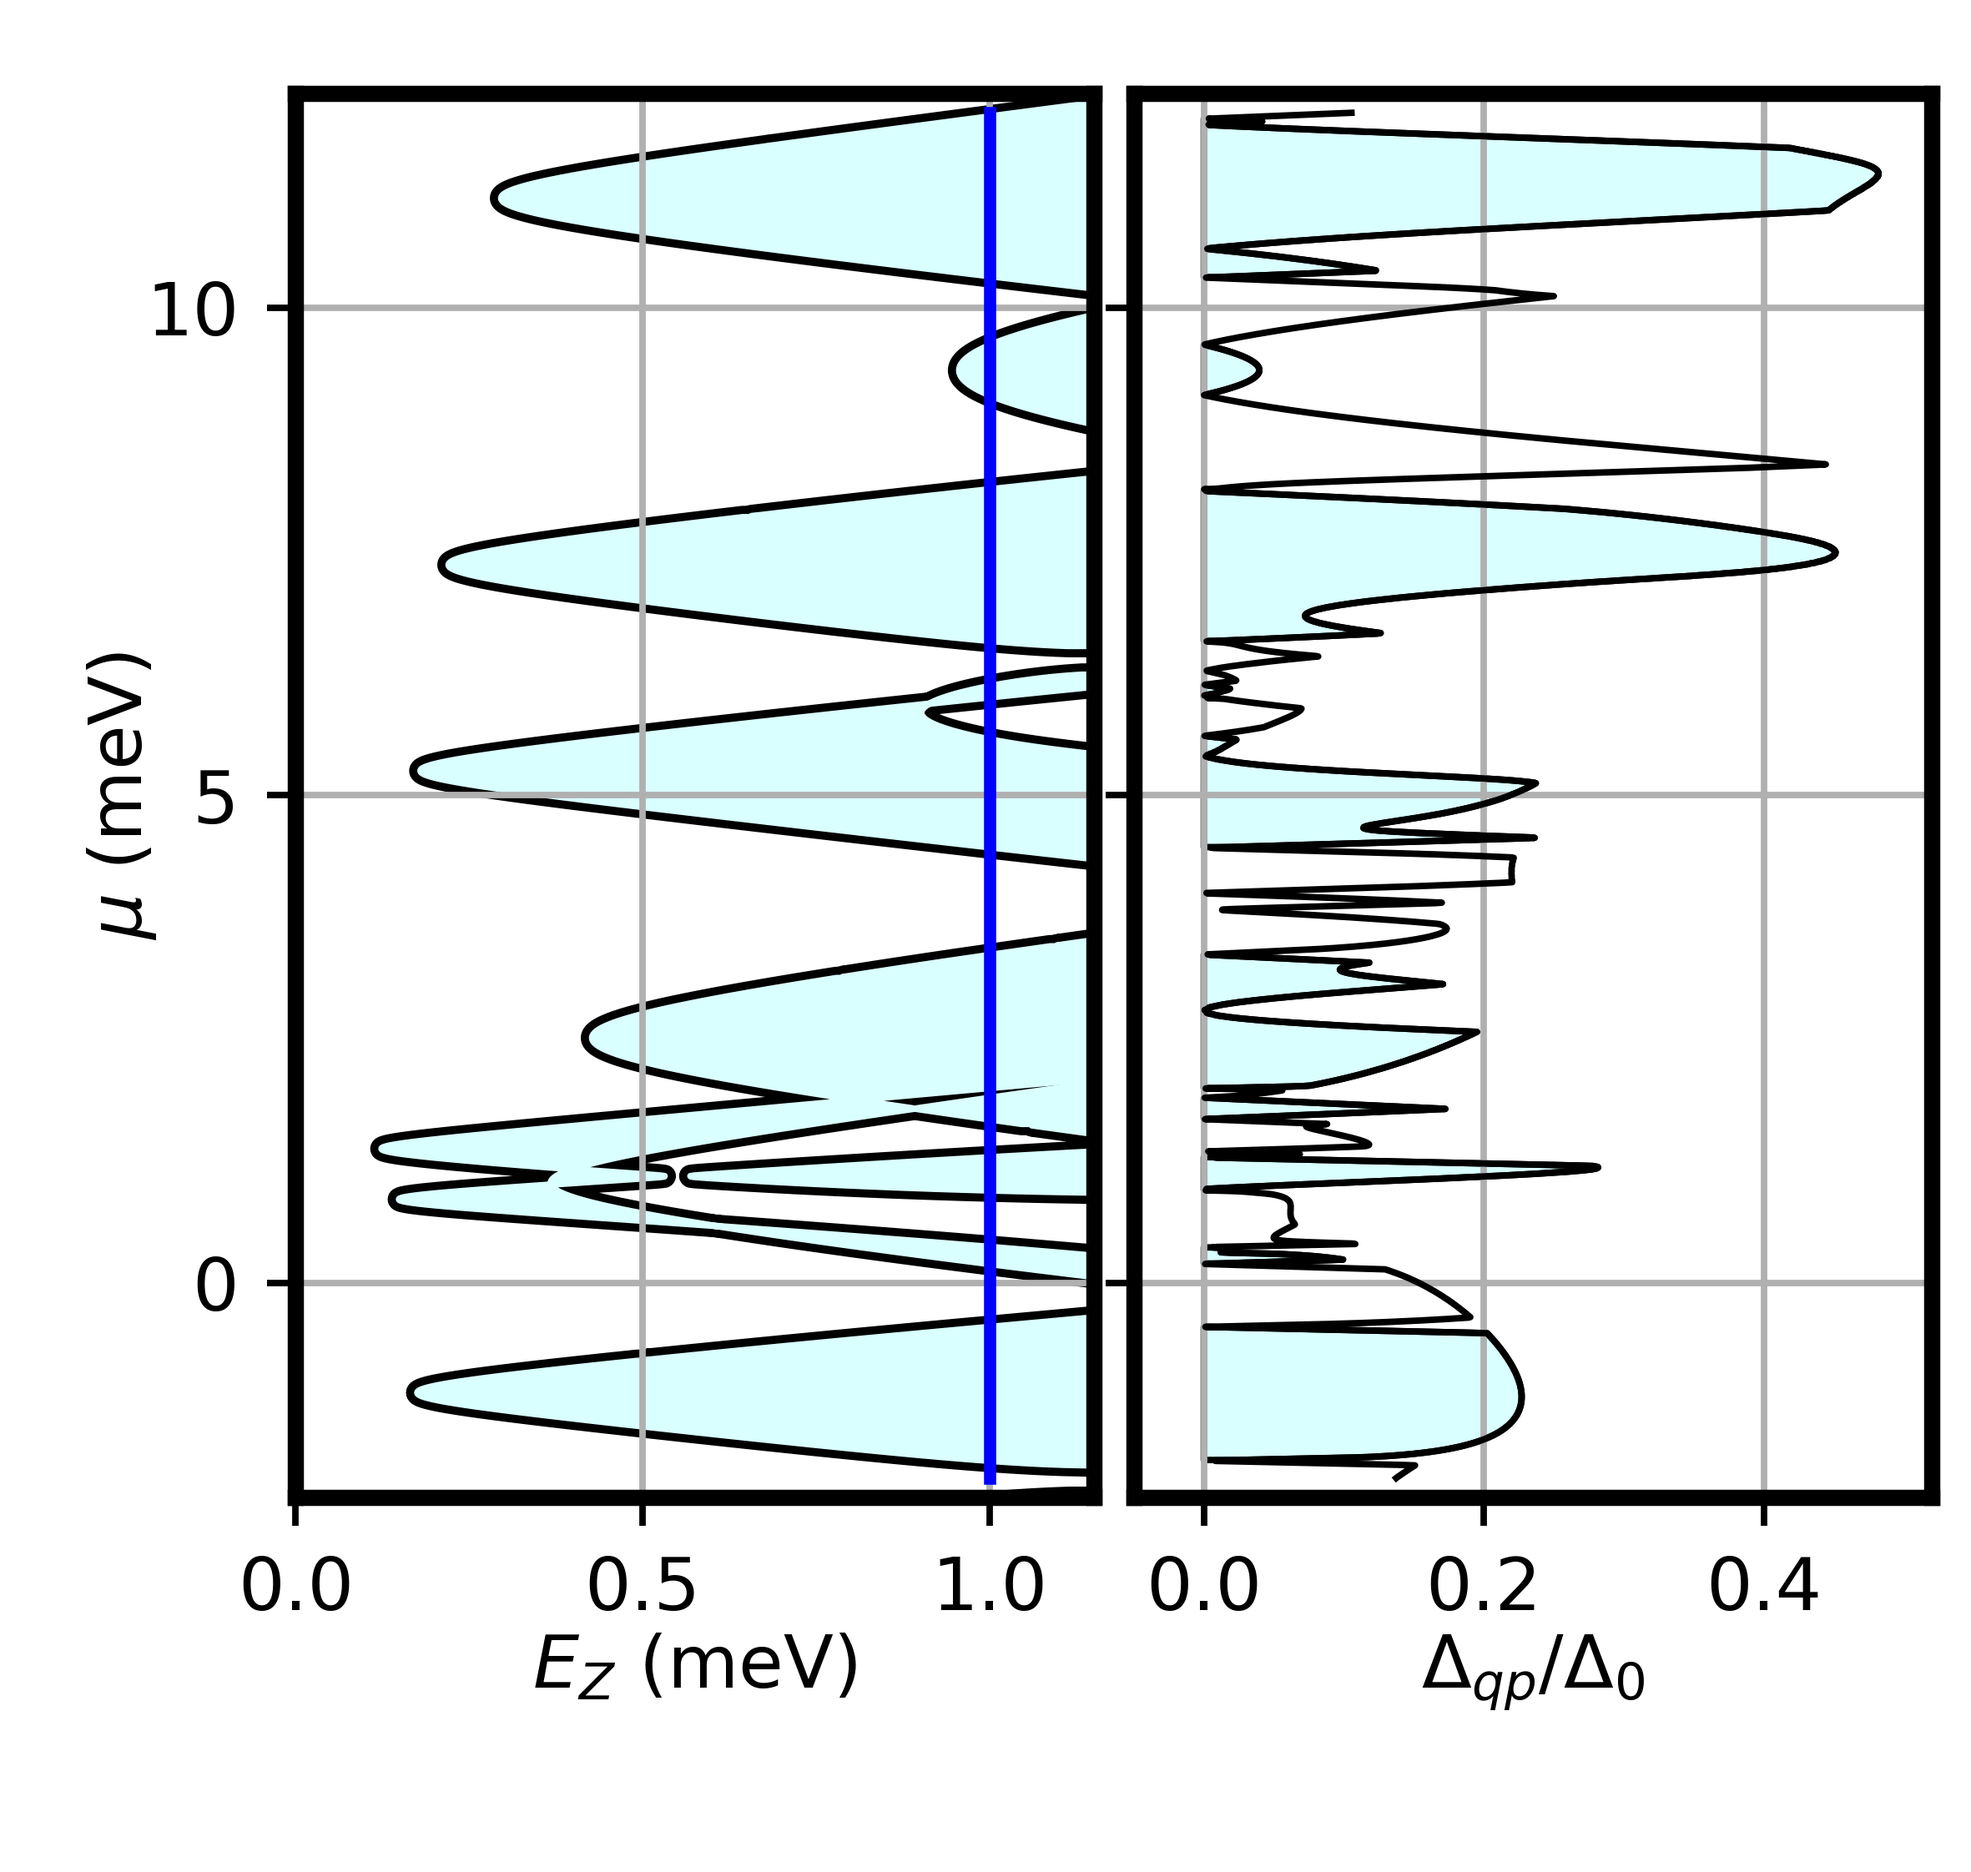
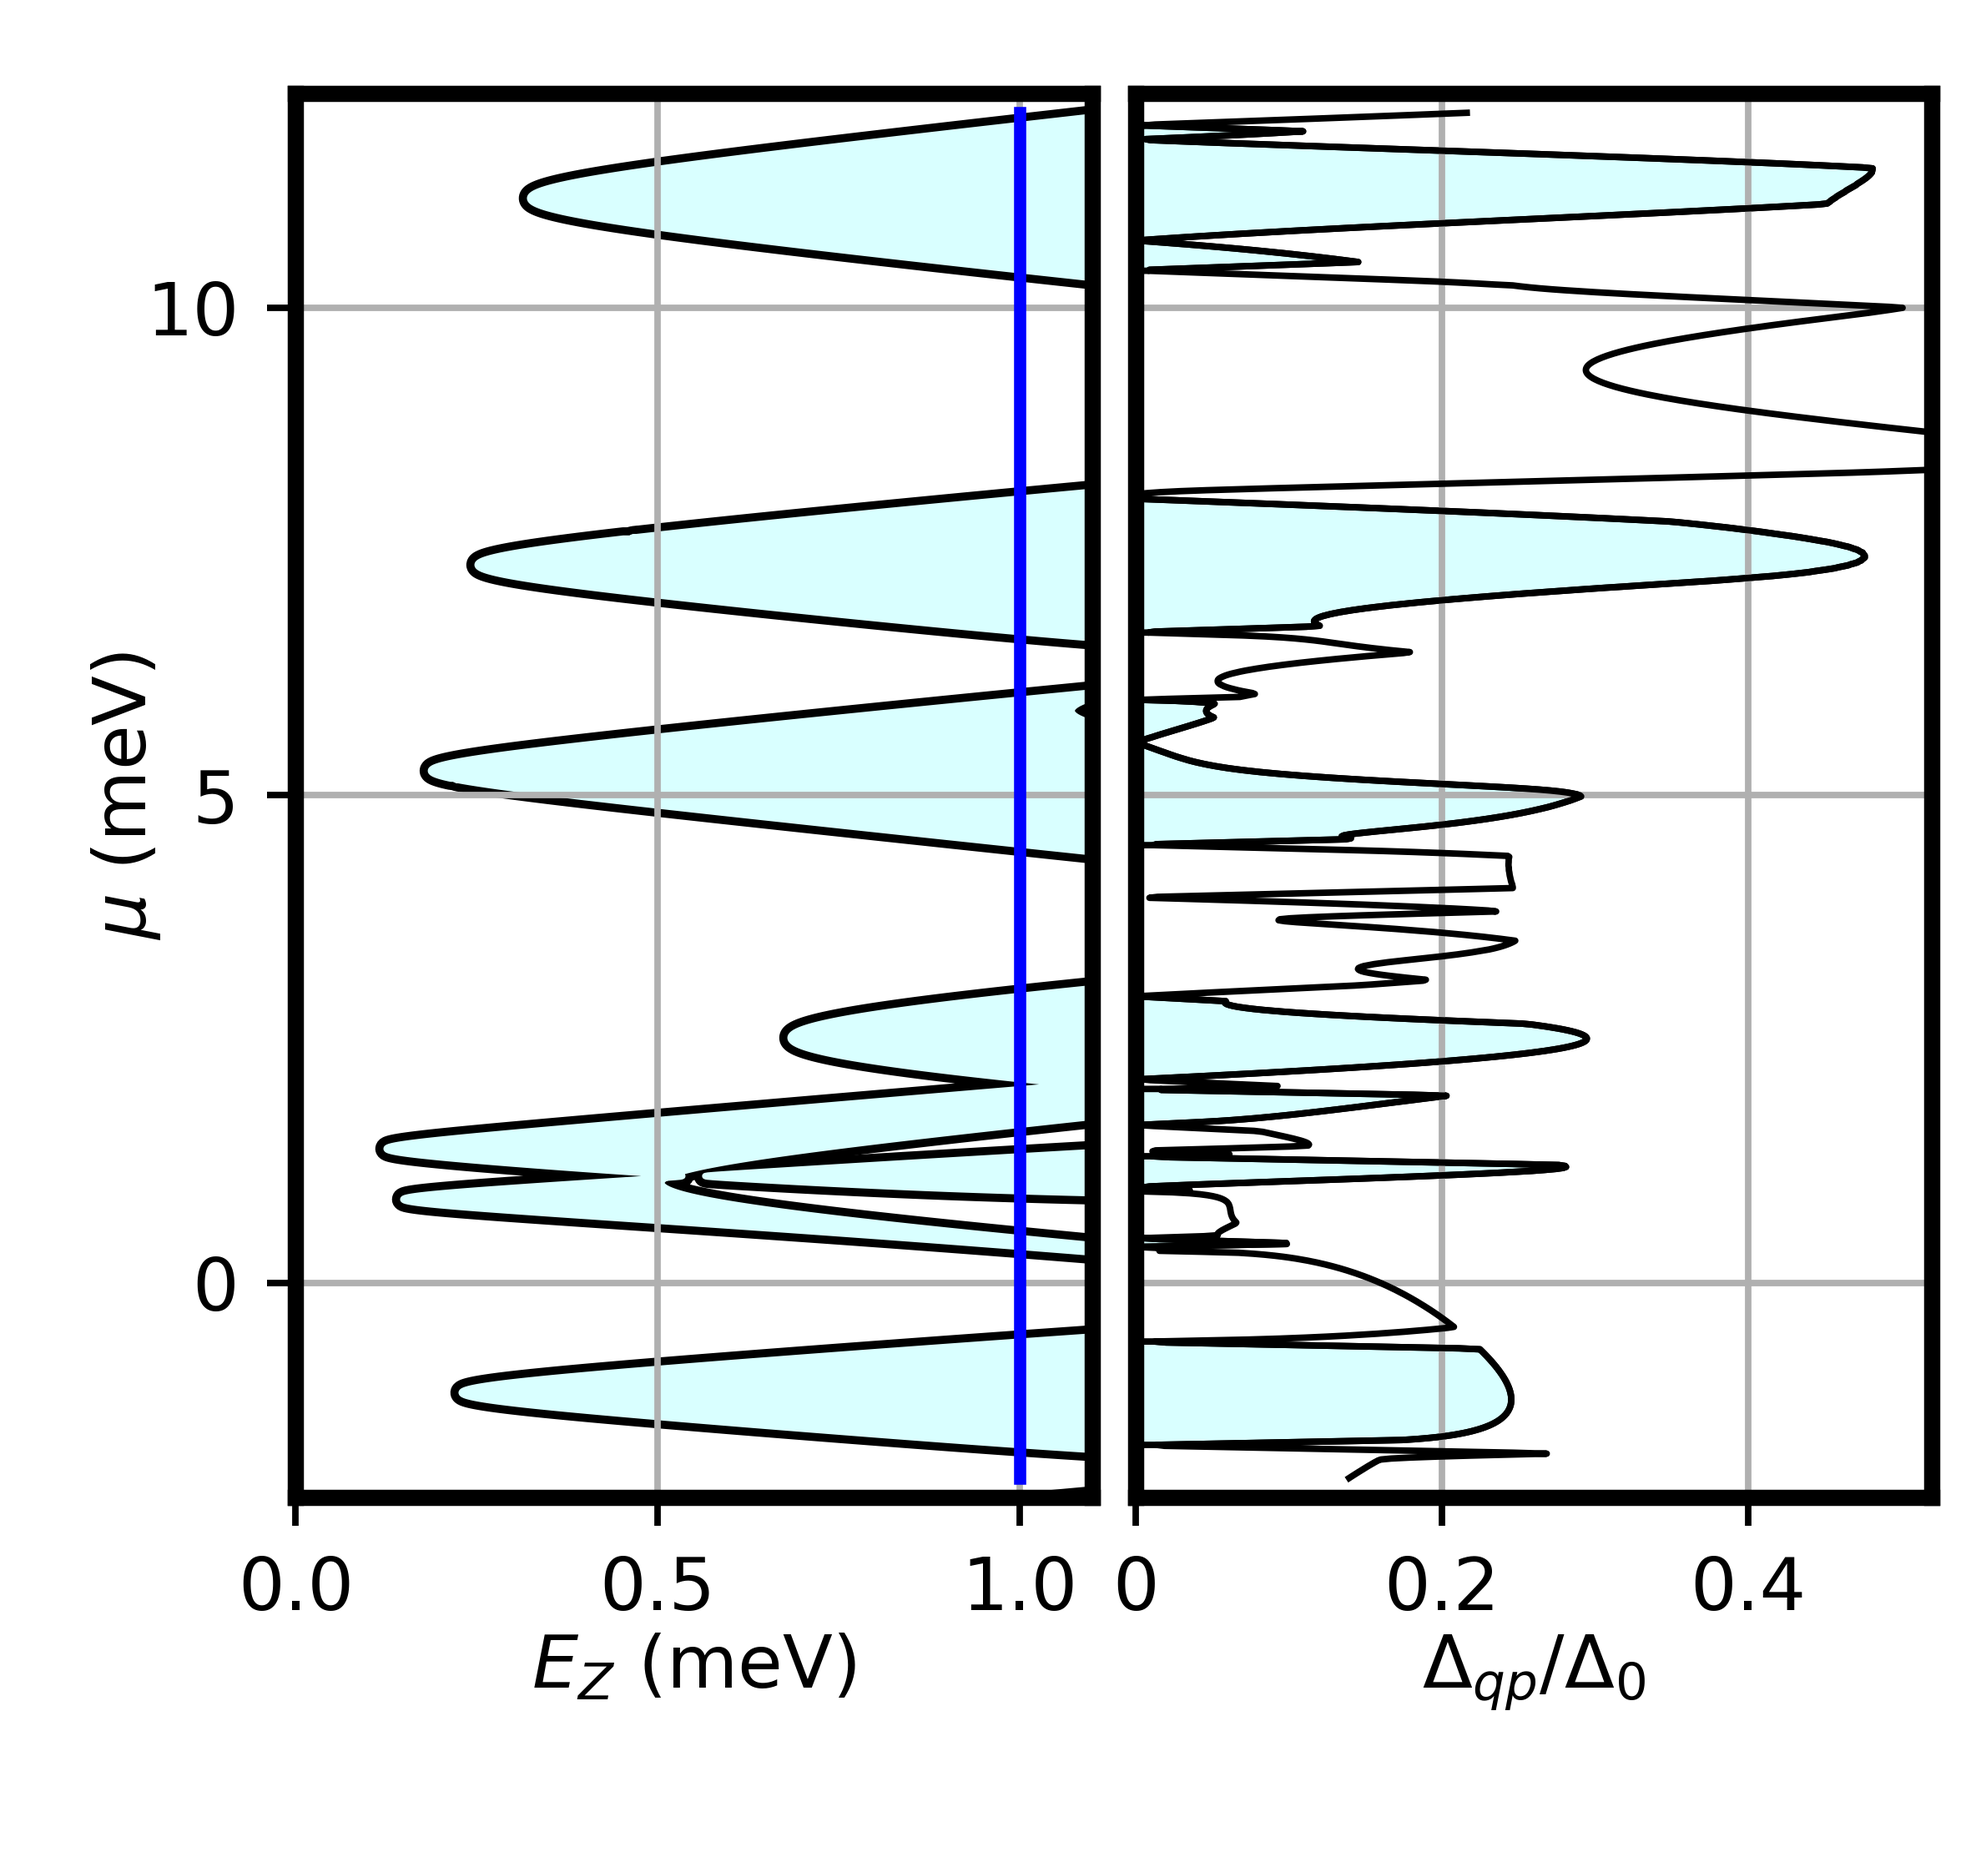
changes

diff --git a/nodular_JJ/infinite_sc/SNRGgap_vs_gam.py b/nodular_JJ/infinite_sc/SNRGgap_vs_gam.py
@@ -14,24 +14,34 @@ ax = 50 #lattice spacing in x-direction: [A]
 ay = 50 #lattice spacing in y-direction: [A]
 Nx = 12 #Number of lattice sites along x-direction
 Wj = 1000 #Junction region [A]
-nodx = 4 #width of nodule
-nody = 8 #height of nodule
-Lx = Nx*ax
-
+cutx = 4 #width of nodule
+cuty = 8 #height of nodule
+cutxT = cutx
+cutxB = cutx
+cutyT = cuty
+cutyB = cuty
+Lx = Nx*ax #Angstrom
 Junc_width = Wj*.1 #nm
-Nod_widthx = nodx*ay*.1 #nm
-Nod_widthy = nody*ay*.1 #nm
-print("Nodule Width in x-direction = ", Nod_widthx, "(nm)")
-print("Nodule Width in y-direction = ", Nod_widthy, "(nm)")
+cutxT_width = cutxT*ax*.1 #nm
+cutyT_width = cutyT*ax*.1 #nm
+cutxB_width = cutxB*ax*.1 #nm
+cutyB_width = cutyB*ax*.1 #nm
+
+print("Lx = ", Lx*.1, "(nm)" )
+print("Top Nodule Width in x-direction = ", cutxT_width, "(nm)")
+print("Bottom Nodule Width in x-direction = ", cutxB_width, "(nm)")
+print("Top Nodule Width in y-direction = ", cutyT_width, "(nm)")
+print("Bottom Nodule Width in y-direction = ", cutyB_width, "(nm)")
 print("Junction Width = ", Junc_width, "(nm)")
 #########################################
 #Defining Hamiltonian parameters
 alpha = 200 #Spin-Orbit Coupling constant: [meV*A]
-phi = np.pi #SC phase difference
+phi = 0*np.pi #SC phase difference
 delta = 0.3 #Superconducting Gap: [meV]
 Vsc = 0 #SC potential: [meV]
 Vj = -40 #Junction potential: [meV]
-mu = [2.37, 6.28, 10.30] #meV
+mu = [7.36, 9.2, 11.12] #phi0
+#mu = [2.37, 6.28, 10.30] #phipi
 
 gi = 0
 gf = 3
@@ -51,21 +61,21 @@ try:
 except:
     PLOT = 'F'
 if PLOT != 'P':
-    np.save("%s/gamx Wj = %.1f Lx = %.1f nodx = %.1f nody = %.1f Vj = %.1f alpha = %.1f delta = %.2f phi = %.3f gam_i = %.1f gam_f = %.1f mu = %.2f.npy" % (dirS, Junc_width, Lx, Nod_widthx,  Nod_widthy, Vj,  alpha, delta, phi, gi, gf, mu[2]), gx)
+    np.save("%s/gamx Wj = %.1f Lx = %.1f cutxT = %.1f cutyT = %.1f, cutxB = %.1f cutyB = %.1f Vj = %.1f alpha = %.1f delta = %.2f phi = %.3f gam_i = %.1f gam_f = %.1f mu = %.2f.npy" % (dirS, Junc_width, Lx, cutxT_width,  cutyT_width, cutxB_width, cutyB_width, Vj,  alpha, delta, phi, gi, gf, mu[0]), gx)
     for i in range(gx.shape[0]):
         print(gx.shape[0]-i)
-        GAP, KX = SNRG.gap(Wj=Wj, Lx=Lx, nodx=nodx, nody=nody, ax=ax, ay=ay, gam=gx[i], mu=mu[2], Vj=Vj, alpha=alpha, delta=delta, phi=phi, targ_steps=2000, muf=mu[2], n_avg=4, PLOT=False, tol=1e-8)
+        GAP, KX = SNRG.gap(Wj=Wj, Lx=Lx, cutxT=cutxT, cutyT=cutyT, cutxB=cutxB, cutyB=cutyB, ax=ax, ay=ay, gam=gx[i], mu=mu[0], Vj=Vj, alpha=alpha, delta=delta, phi=phi, targ_steps=2500, n_avg=4, muf=mu[0], PLOT=False, tol=1e-7)
         gap_gam[i] = GAP
         kx_of_gap[i] = KX
-        np.save("%s/gapfxgam Wj = %.1f Lx = %.1f nodx = %.1f nody = %.1f Vj = %.1f alpha = %.1f delta = %.2f phi = %.3f gam_i = %.1f gam_f = %.1f mu = %.2f.npy" % (dirS, Junc_width, Lx, Nod_widthx,  Nod_widthy, Vj,  alpha, delta, phi, gi, gf, mu[2]), gap_gam)
-        np.save("%s/kxofgapfxgam Wj = %.1f Lx = %.1f nodx = %.1f nody = %.1f Vj = %.1f alpha = %.1f delta = %.2f phi = %.3f gam_i = %.1f gam_f = %.1f mu = %.2f.npy" % (dirS, Junc_width, Lx, Nod_widthx,  Nod_widthy, Vj,  alpha, delta, phi, gi, gf, mu[2]), kx_of_gap)
+        np.save("%s/gapfxgam Wj = %.1f Lx = %.1f cutxT = %.1f cutyT = %.1f, cutxB = %.1f cutyB = %.1f Vj = %.1f alpha = %.1f delta = %.2f phi = %.3f gam_i = %.1f gam_f = %.1f mu = %.2f.npy" % (dirS, Junc_width, Lx, cutxT_width,  cutyT_width, cutxB_width, cutyB_width, Vj,  alpha, delta, phi, gi, gf, mu[0]), gap_gam)
+        np.save("%s/kxofgapfxgam Wj = %.1f Lx = %.1f cutxT = %.1f cutyT = %.1f, cutxB = %.1f cutyB = %.1f Vj = %.1f alpha = %.1f delta = %.2f phi = %.3f gam_i = %.1f gam_f = %.1f mu = %.2f.npy" % (dirS, Junc_width, Lx, cutxT_width,  cutyT_width, cutxB_width, cutyB_width, Vj,  alpha, delta, phi, gi, gf, mu[0]), kx_of_gap)
         gc.collect()
 
     sys.exit()
 else:
-    gap = np.load("%s/gapfxgam Wj = %.1f Lx = %.1f nodx = %.1f nody = %.1f Vj = %.1f alpha = %.1f delta = %.2f phi = %.3f gam_i = %.1f gam_f = %.1f mu = %.2f.npy" % (dirS, Junc_width, Lx, Nod_widthx,  Nod_widthy, Vj,  alpha, delta, phi, gi, gf, mu[2]))
-    gx = np.load("%s/gamx Wj = %.1f Lx = %.1f nodx = %.1f nody = %.1f Vj = %.1f alpha = %.1f delta = %.2f phi = %.3f gam_i = %.1f gam_f = %.1f mu = %.2f.npy" % (dirS, Junc_width, Lx, Nod_widthx,  Nod_widthy, Vj,  alpha, delta, phi, gi, gf, mu[2]))
-    kx_of_gap = np.load("%s/kxofgapfxgam Wj = %.1f Lx = %.1f nodx = %.1f nody = %.1f Vj = %.1f alpha = %.1f delta = %.2f phi = %.3f gam_i = %.1f gam_f = %.1f mu = %.2f.npy" % (dirS, Junc_width, Lx, Nod_widthx,  Nod_widthy, Vj,  alpha, delta, phi, gi, gf, mu[2]))
+    gap = np.load("%s/gapfxgam Wj = %.1f Lx = %.1f cutxT = %.1f cutyT = %.1f, cutxB = %.1f cutyB = %.1f Vj = %.1f alpha = %.1f delta = %.2f phi = %.3f gam_i = %.1f gam_f = %.1f mu = %.2f.npy" % (dirS, Junc_width, Lx, cutxT_width,  cutyT_width, cutxB_width, cutyB_width, Vj,  alpha, delta, phi, gi, gf, mu[0]))
+    gx = np.load("%s/gamx Wj = %.1f Lx = %.1f cutxT = %.1f cutyT = %.1f, cutxB = %.1f cutyB = %.1f Vj = %.1f alpha = %.1f delta = %.2f phi = %.3f gam_i = %.1f gam_f = %.1f mu = %.2f.npy" % (dirS, Junc_width, Lx, cutxT_width,  cutyT_width, cutxB_width, cutyB_width, Vj,  alpha, delta, phi, gi, gf, mu[0]))
+    kx_of_gap = np.load("%s/kxofgapfxgam Wj = %.1f Lx = %.1f cutxT = %.1f cutyT = %.1f, cutxB = %.1f cutyB = %.1f Vj = %.1f alpha = %.1f delta = %.2f phi = %.3f gam_i = %.1f gam_f = %.1f mu = %.2f.npy" % (dirS, Junc_width, Lx, cutxT_width,  cutyT_width, cutxB_width, cutyB_width, Vj,  alpha, delta, phi, gi, gf, mu[0]))
 
     top_arr = np.zeros(gx.shape[0])
     num = 1

diff --git a/nodular_JJ/infinite_sc/SNRGgap_vs_mu.py b/nodular_JJ/infinite_sc/SNRGgap_vs_mu.py
@@ -40,13 +40,13 @@ print("Junction Width = ", Junc_width, "(nm)")
 #########################################
 #Defining Hamiltonian parameters
 alpha = 200 #Spin-Orbit Coupling constant: [meV*A]
-phi = 0*np.pi #SC phase difference
+phi = np.pi #SC phase difference
 delta = 0.30 #Superconducting Gap: [meV]
 Vj = -40 #Junction potential: [meV]
 gx = 1 #mev
 
 mu_i = -2
-mu_f = 12
+mu_f = 13.2
 delta_mu = mu_f - mu_i
 res = 0.01
 steps = int(abs(delta_mu/res))+1
@@ -72,7 +72,7 @@ if PLOT != 'P':
     np.save("%s/mu Wj = %.1f nm Lx = %.1f nm cutxT = %.1f cutyT = %.1f, cutxB = %.1f cutyB = %.1f, nm Vj = %.1f meV alpha = %.1f meVA delta = %.2f meV phi = %.2f mu_i = %.1f meV mu_f = %.1f meV gx = %.2f meV.npy" % (dirS, Junc_width, Lx*.1, cutxT_width,  cutyT_width, cutxB_width, cutyB_width, Vj,  alpha, delta, phi, mu_i, mu_f, gx), mu)
     for i in range(0, mu.shape[0]):
         print(steps-i, "| mu =", mu[i])
-        GAP, KX = SNRG.gap(Wj=Wj, Lx=Lx, cutxT=cutxT, cutyT=cutyT, cutxB=cutxB, cutyB=cutyB, ax=ax, ay=ay, gam=gx, mu=mu[i], Vj=Vj, alpha=alpha, delta=delta, phi=phi, targ_steps=2000, n_avg=4, muf=mu[i], PLOT=False, tol=1e-8)
+        GAP, KX = SNRG.gap(Wj=Wj, Lx=Lx, cutxT=cutxT, cutyT=cutyT, cutxB=cutxB, cutyB=cutyB, ax=ax, ay=ay, gam=gx, mu=mu[i], Vj=Vj, alpha=alpha, delta=delta, phi=phi, targ_steps=2500, n_avg=4, muf=mu[i], PLOT=False, tol=1e-7)
         gap[i] = GAP
         kx_of_gap[i] = KX
         np.save("%s/gapfxmu Wj = %.1f nm Lx = %.1f nm cutxT = %.1f cutyT = %.1f, cutxB = %.1f cutyB = %.1f, nm Vj = %.1f meV alpha = %.1f meVA delta = %.2f meV phi = %.2f mu_i = %.1f meV mu_f = %.1f meV gx = %.2f meV.npy" % (dirS, Junc_width, Lx*.1, cutxT_width,  cutyT_width, cutxB_width, cutyB_width, Vj,  alpha, delta, phi, mu_i, mu_f, gx), gap)
@@ -93,7 +93,7 @@ else:
     top_arr[lower_bound:] = num
     for i in range(local_min_idx.shape[0]):
         lower_bound = local_min_idx[i]
-        if gap[local_min_idx[i]]/delta < 0.02 and (Lx*kx_of_gap[local_min_idx[i]] <= 0.1 or abs(Lx*kx_of_gap[local_min_idx[i]] - np.pi) < .15):
+        if gap[local_min_idx[i]]/delta < 0.02 and (Lx*kx_of_gap[local_min_idx[i]] <= 0.2 or abs(Lx*kx_of_gap[local_min_idx[i]] - np.pi) <= .138):
             num=num*-1
         top_arr[lower_bound:] = num
 
@@ -120,8 +120,8 @@ else:
 
     axs[0].set_ylabel(r'$\Delta_{qp}/\Delta_{0}$')
     axs[1].set_ylabel(r'$k_{x}*L_{x}$')
-    axs[1].set_yticks([0, np.pi/8, 2*np.pi/8, 3*np.pi/8, 4*np.pi/8, 5*np.pi/8, 6*np.pi/8, 7*np.pi/8, 8*np.pi/8])
-    axs[1].set_yticklabels(['0', r'$\pi/8$', r'$2\pi/8$', r'$3\pi/8$', r'$4\pi/8$', r'$5\pi/8$', r'6$\pi/8$', r'7$\pi/8$', r'$\pi$'])
+    #axs[1].set_yticks([0, np.pi/8, 2*np.pi/8, 3*np.pi/8, 4*np.pi/8, 5*np.pi/8, 6*np.pi/8, 7*np.pi/8, 8*np.pi/8])
+    #axs[1].set_yticklabels(['0', r'$\pi/8$', r'$2\pi/8$', r'$3\pi/8$', r'$4\pi/8$', r'$5\pi/8$', r'6$\pi/8$', r'7$\pi/8$', r'$\pi$'])
     #plt.xlabel(r'$\mu$ (meV)')
     #plt.ylabel(r'$\Delta_{qp}/\Delta_{0}$')
     #plt.ylim(0,0.3)

diff --git a/modules/finders.py b/modules/finders.py
@@ -187,16 +187,16 @@ def SNRG_gam_finder(
     k = 20, QX=0, tol = 1e-5, done = False, PLOT = False, n = 3
     ):
     delta_gam = abs(gf-gi)
-    n1, n2 = step_finder(delta_gam/(tol) + 1, n)
+    n1, n2 = step_finder(delta_gam/(2*tol) + 1, n)
 
-    H0 = SNRG.Junc_eff_Ham_gen(omega=0, Wj=Wj, Lx=Lx, cutxT=cutxT, cutyT=cutyT, cutxB=cutxB, cutyB=cutyB, ax=ax, ay=ay, kx=QX, m_eff=m_eff, alp_l=alpha, alp_t=alpha, mu=mu, Vj=Vj, Vsc=Vsc, Gam=1e-7, delta=delta, phi=phi)
+    H0 = SNRG.Junc_eff_Ham_gen(omega=0, Wj=Wj, Lx=Lx, cutxT=cutxT, cutyT=cutyT, cutxB=cutxB, cutyB=cutyB, ax=ax, ay=ay, kx=QX, m_eff=m_eff, alp_l=alpha, alp_t=alpha, mu=mu, Vj=Vj, Vsc=Vsc, Gam=1e-9, delta=delta, phi=phi)
     eigs, vecs = spLA.eigsh(H0, k=k, sigma=0, which='LM')
     vecs_hc = np.conjugate(np.transpose(vecs)) #hermitian conjugate
     idx_sort = np.argsort(eigs)
     eigs = eigs[idx_sort]
     #print(eigs)
 
-    H_G1 = SNRG.Junc_eff_Ham_gen(omega=0, Wj=Wj, Lx=Lx, cutxT=cutxT, cutyT=cutyT, cutxB=cutxB, cutyB=cutyB, ax=ax, ay=ay, kx=QX, m_eff=m_eff, alp_l=alpha, alp_t=alpha, mu=mu, Vj=Vj, Vsc=Vsc, Gam=1+1e-7, delta=delta, phi=phi) #Hamiltonian with ones on Zeeman energy along x-direction sites
+    H_G1 = SNRG.Junc_eff_Ham_gen(omega=0, Wj=Wj, Lx=Lx, cutxT=cutxT, cutyT=cutyT, cutxB=cutxB, cutyB=cutyB, ax=ax, ay=ay, kx=QX, m_eff=m_eff, alp_l=alpha, alp_t=alpha, mu=mu, Vj=Vj, Vsc=Vsc, Gam=1+1e-9, delta=delta, phi=phi) #Hamiltonian with ones on Zeeman energy along x-direction sites
 
     HG = H_G1 - H0 #the proporitonality matrix for gam-x, it is ones along the sites that have a gam value
     HG0_DB = np.dot(vecs_hc, H0.dot(vecs))
